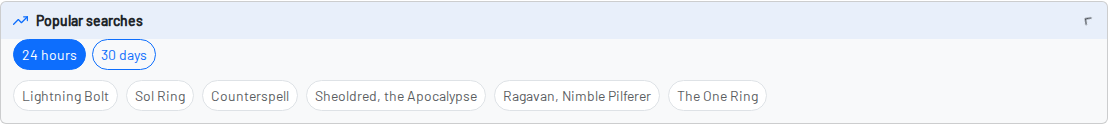
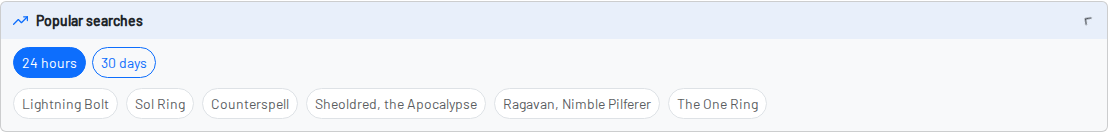
Add spacing between popular searches header and period toggle

diff --git a/frontend/src/index.css b/frontend/src/index.css
@@ -259,7 +259,7 @@ ins.adsbygoogle iframe {
 }
 
 .popular-searches-panel {
-  padding: 0 0.75rem 0.75rem;
+  padding: 0.5rem 0.75rem 0.75rem;
 }
 
 .popular-searches-controls {